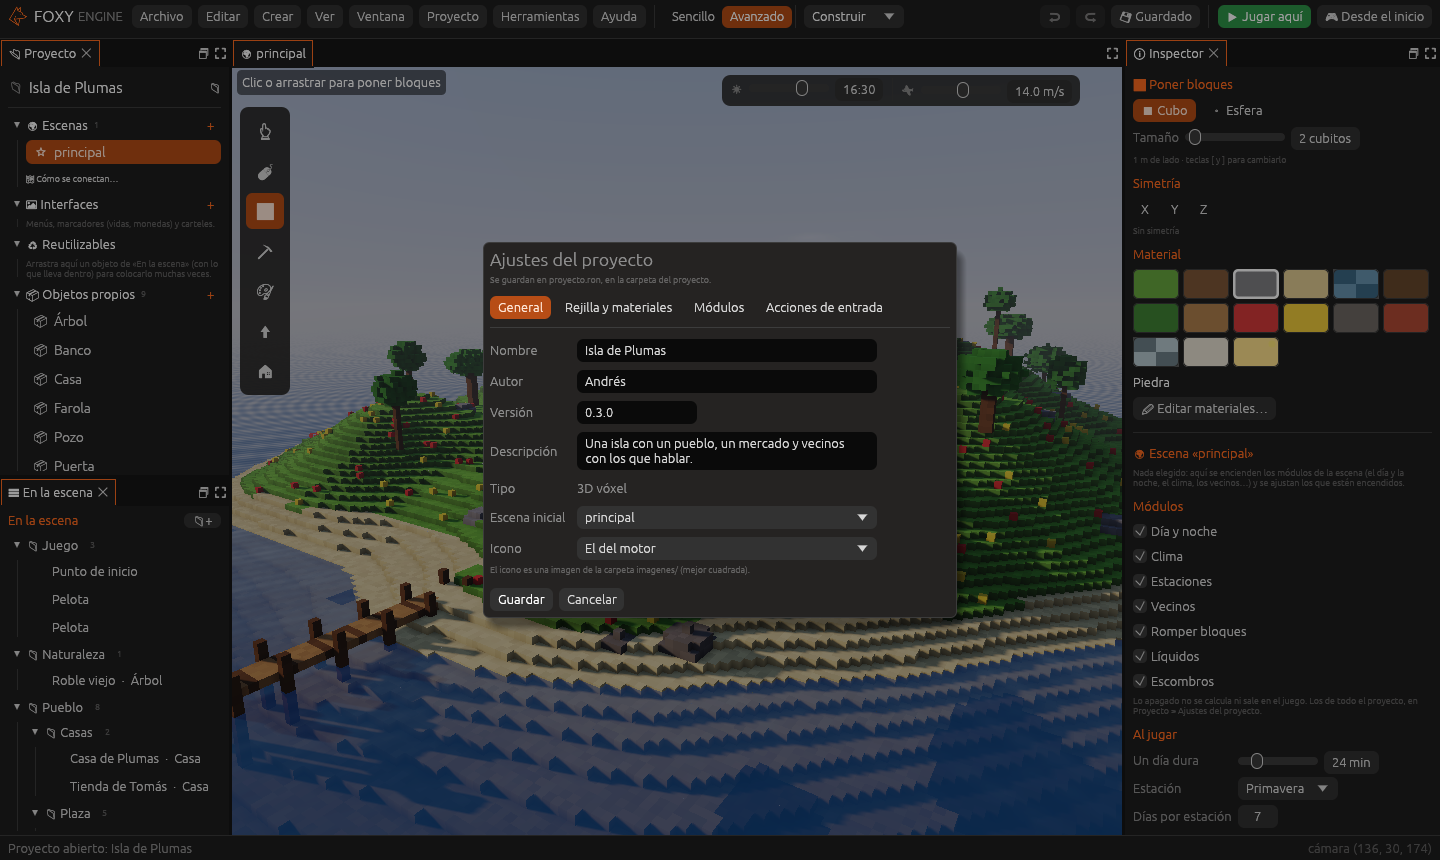
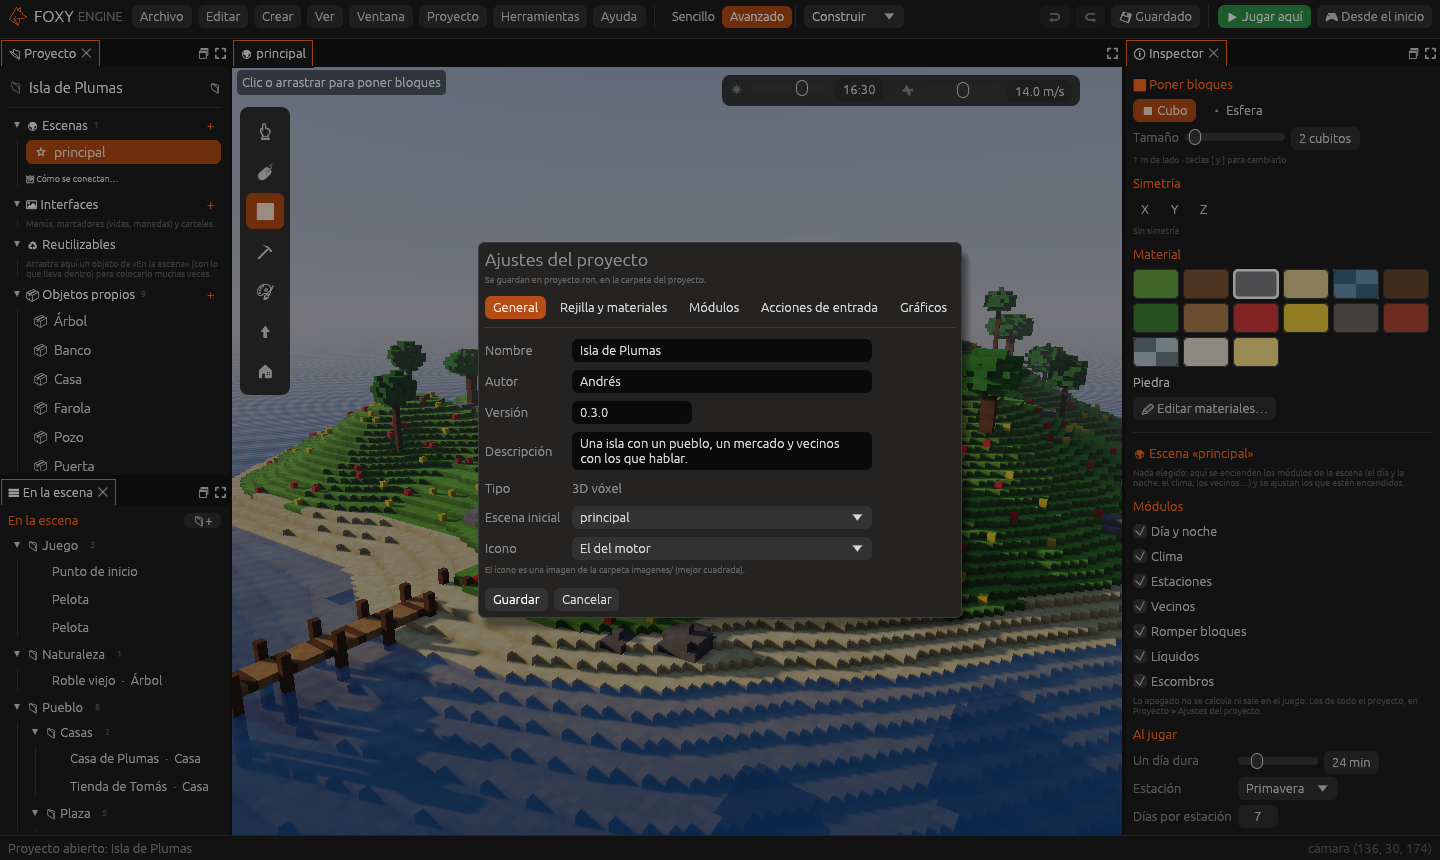
Mundos enormes: página nueva, ajustes, línea de comandos, historial y capturas
Claude-Session: https://claude.ai/code/session_0188fnkrXgsRWdx9nVeSFXNg

diff --git a/theme/version.js b/theme/version.js
@@ -1,2 +1,2 @@
 // Lo escribe herramientas/capturas.py con `foxy-engine --version`.
-window.FOXY_VERSION = "0.0.1-PR44";
+window.FOXY_VERSION = "0.0.1-PR45";

diff --git a/herramientas/capturas.py b/herramientas/capturas.py
@@ -180,7 +180,10 @@ LISTA: dict[str, str] = {
     "isla": f"{JUEGO} {ISLA}",
     # Gráficos (Fase I)
     "ajustes-graficos": f"{ED} --pestana ajustes-graficos",
-    "panel-ajustes-graficos": "@recorte ajustes-graficos 476,104,964,758",
+    "panel-ajustes-graficos": "@recorte ajustes-graficos 476,80,964,782",
+    # La página Gráficos sin desplazar (más alta), para ver «Mundo enorme».
+    "ajustes-graficos-alto": f"--ancho {ANCHO} --alto 1300 --editor --pestana ajustes-graficos",
+    "ajustes-mundo-enorme": "@recorte ajustes-graficos-alto 478,1000,962,1150",
     "juego-opciones-graficos": f"{JUEGO} --juego --menu opciones-graficos",
     "cueva-antorchas": f"{JUEGO} --enorme cueva-con-antorchas",
     "modelos-pbr": f"{ED} --pestana modelos --camara 49.6,6.6,50.6 --mirar 47.8,5.2,46 --hora 21 --recortar vista",
@@ -194,6 +197,7 @@ LISTA: dict[str, str] = {
     "isla-realista": f"--ancho 720 --alto 430 {ISLA} --hora 17.2 --atmosfera realista",
     # Efectos, partículas y estilos (Fase K)
     "cueva-efectos": f"{JUEGO} --enorme cueva-con-efectos",
+    "mundo-de-kilometros": f"{JUEGO} --enorme mundo-de-kilometros --mundo-enorme",
     "ambiente-dibujo": f"--ancho 720 --alto 430 {ISLA} --hora 15 --ambiente dibujo",
     "ambiente-neon": f"--ancho 720 --alto 430 {PLAZA} --camara 118,26,142 --mirar 96,17,118 --hora 22 --ambiente neon",
     "ambiente-acuarela": f"--ancho 720 --alto 430 {ISLA} --hora 15 --ambiente acuarela",

diff --git a/src/guia/mundos-enormes.md b/src/guia/mundos-enormes.md
@@ -1,0 +1,103 @@
+# Mundos enormes
+
+Un mundo de varios kilómetros, con miles de árboles y rocas, no cabe entero
+en la tarjeta gráfica con todo su detalle. Foxy Engine tiene un grupo de
+ajustes, **Mundo enorme**, para que un mundo así vaya fluido: carga solo lo
+que hace falta, dibuja lo de lejos con menos detalle, se salta lo que queda
+tapado y no tiembla aunque te alejes mucho del centro.
+
+Vienen **apagados**: un mundo pequeño no los necesita y se ve igual que
+siempre. Se encienden en **Proyecto → Ajustes del proyecto → Gráficos →
+Mundo enorme**.
+
+![Colinas de 4 × 4 km con miles de árboles y rocas, con todo encendido](../imagenes/capturas/mundo-de-kilometros.png)
+
+## Encender todo
+
+El botón **Encender todo** pone todas las piezas a la vez, con valores que
+van bien para un mundo de kilómetros. **Apagar todo** las quita. También
+puedes encenderlas una a una:
+
+| Opción | Qué hace |
+|---|---|
+| **Carga por zonas** | El mundo se reparte en zonas que se preparan poco a poco, sin parar el juego. Cuanto más lejos, más grande es la zona y menos detalle lleva |
+| **Se ve hasta** | Hasta dónde se dibuja el terreno con la carga por zonas, en metros (de serie, 1.500 m). La niebla de lejos llega justo hasta ahí |
+| **No dibujar lo tapado** | Lo que queda detrás de la roca (las cuevas cuando estás en la superficie, o la superficie cuando estás en una cueva) no se dibuja |
+| **Objetos hasta** | Los objetos más lejos de esa distancia, fuera de la pantalla o tan pequeños que no se verían, no se dibujan. Con 0 se dibujan todos |
+| **Coordenadas grandes** | Todo se dibuja desde la cámara, para que a varios kilómetros del centro nada tiemble |
+
+![La sección Mundo enorme en los Ajustes del proyecto](../imagenes/capturas/ajustes-mundo-enorme.png)
+
+## Carga por zonas
+
+Sin la carga por zonas, al abrir una escena el motor prepara todo el
+terreno de una vez y lo guarda en la tarjeta gráfica. En un mundo pequeño
+es lo más rápido. En uno de kilómetros tardaría mucho y no cabría.
+
+Con la carga por zonas:
+
+- **Cerca** de la cámara cada trozo (de 16 m) se dibuja con todo su detalle.
+- **Más lejos**, los trozos se juntan en zonas cada vez más grandes (de 2,
+  4, 8, 16 y 32 trozos de lado), cada una con casillas más grandes. Desde
+  lejos no se nota y cuesta mucho menos.
+- Las zonas se preparan **en todos los núcleos del ordenador** mientras
+  juegas, y se suben unas pocas en cada imagen, lo más cercano primero.
+  Así **no hay tirones**: mientras llega una zona nueva, se sigue viendo
+  la de antes.
+- Lo que queda muy lejos se **tira** de la memoria, así que puedes viajar
+  sin que la memoria crezca.
+- Al editar, solo se rehacen las zonas que tocan lo que has cambiado.
+
+La distancia a la que se cambia de detalle es la del
+[detalle de lejos](rendimiento.md#detalle-de-lejos) (96 m si no la
+cambias): a esa distancia se pasa a zonas de 2 trozos, al doble a zonas de
+4, y así.
+
+> <i class="fx fx-nota"></i> **Nota.** El agua de lejos queda a su altura de
+> verdad, y las zonas de distinto detalle encajan sin rendijas.
+
+## No dibujar lo tapado
+
+Desde el trozo donde está la cámara, el motor mira por qué huecos se puede
+pasar a los trozos de al lado, y de ahí a los siguientes, sin volver nunca
+hacia atrás. Lo que no se alcanza así está tapado por roca y no se dibuja.
+Es muy barato y sirve sobre todo en mundos con cuevas: desde una cueva,
+la mitad del mundo puede quedar sin dibujar sin que cambie un solo píxel.
+
+Las sombras se siguen calculando con todo, porque una montaña que no ves
+puede hacer sombra en lo que sí ves.
+
+## Objetos de lejos
+
+Los objetos iguales ya se dibujan juntos: mil árboles iguales son un solo
+encargo para la tarjeta. Con **Objetos hasta**, además, solo van a la
+tarjeta los que se ven: los que están dentro de la pantalla, más cerca que
+esa distancia y no más pequeños que un par de píxeles.
+
+## Coordenadas grandes
+
+Los ordenadores guardan las posiciones con unos siete dígitos. A 4 km del
+centro, eso deja poco para los centímetros y las cosas pueden temblar un
+poco al moverse. Con **Coordenadas grandes**, el motor dibuja todo
+contando desde la cámara, donde los números son pequeños y precisos.
+
+## Probarlo
+
+Las [escenas de prueba](../referencia/linea-de-comandos.md#escenas-de-prueba-enormes)
+traen una de **4 × 4 km** con 4.096 árboles y rocas,
+`mundo-de-kilometros`. En la línea de comandos, `--mundo-enorme` enciende
+todo para una captura:
+
+```sh
+foxy-engine --captura km.png --enorme mundo-de-kilometros --mundo-enorme
+```
+
+En la ventana [Rendimiento](rendimiento.md), **Trozos dibujados** cuenta
+las zonas que se dibujan y **Mallas en la tarjeta** lo que ocupan.
+
+## Véase también
+
+- [Rendimiento](rendimiento.md)
+- [Gráficos: luz, sombras y atmósfera](graficos.md)
+- [El terreno de cubitos](generadores.md)
+- [Ajustes del proyecto](../editor/ajustes-proyecto.md)

diff --git a/src/referencia/linea-de-comandos.md b/src/referencia/linea-de-comandos.md
@@ -115,6 +115,8 @@ Valen para cualquier captura, con o sin `--editor`. Ver
 | `--atmosfera <piezas>` | `realista`, `nada` o una lista separada por comas con `luz`, `oclusion`, `agua`, `cielo`, `destello`, `desenfoque`, `color` y `temporal` |
 | `--ambiente <nombre>` | `ninguno`, `realista`, `dibujo`, `neon`, `acuarela` o `pixel` |
 | `--estilo <piezas>` | `nada` o una lista separada por comas con `contorno`, `bandas`, `acuarela`, `pixel`, `paleta`, `lluvia`, `mojado` y `neon` |
+| `--mundo-enorme` | Enciende todo lo de [Mundos enormes](../guia/mundos-enormes.md) |
+| `--mundo-piezas <piezas>` | `todo`, `nada` o una lista separada por comas con `zonas`, `ocultos`, `objetos` y `coordenadas` |
 
 Los paneles son `vista`, `proyecto`, `escena`, `inspector`, `codigo`,
 `nodos`, `archivos`, `materiales`, `pixel` y `registro`. Las capturas
@@ -138,7 +140,7 @@ lento ni cambia la imagen sin querer. Las usa GitHub Actions en cada cambio.
 
 ### Escenas de prueba enormes
 
-El motor fabrica solo cinco escenas para medirse al límite. Salen siempre
+El motor fabrica solo siete escenas para medirse al límite. Salen siempre
 iguales:
 
 | Nombre | Qué tiene |
@@ -148,6 +150,8 @@ iguales:
 | `muchas-luces` | 400 farolas encendidas de noche |
 | `cueva-con-antorchas` | Una sala de piedra con columnas y seis antorchas que hacen sombra |
 | `rayos-de-sol` | Una sala con tres agujeros en el techo, sol de mañana y niebla: salen rayos de luz |
+| `cueva-con-efectos` | La sala de los rayos de sol con una hoguera, ascuas, una cascada y destellos |
+| `mundo-de-kilometros` | Colinas de 4 × 4 km con 4.096 árboles y rocas. Se mide y se captura con todo lo de [Mundos enormes](../guia/mundos-enormes.md) encendido |
 
 Para verlas: `--captura x.png --enorme <nombre>`. Para verlas en el editor y
 jugando, con el perfilador:

diff --git a/src/editor/ajustes-proyecto.md b/src/editor/ajustes-proyecto.md
@@ -68,6 +68,7 @@ Cómo se ve el juego. Los cambios se ven al momento en la escena.
 | **Calidad del juego** | La calidad con la que empieza el juego. Cada jugador la cambia en **Opciones → Gráficos** |
 | **Luz y atmósfera** | Luz que rebota, rincones más oscuros, agua de verdad, cielo físico, destello, desenfoque, suavizado temporal, escala del dibujo y color. **Realista** las enciende todas y **Apagar todo** las quita |
 | **Piezas del dibujo** | Apaga sombras, luces, cielo, niebla, agua o transparentes |
+| **Mundo enorme** | Carga por zonas, no dibujar lo tapado, objetos de lejos y coordenadas grandes, para mundos de kilómetros. Vienen apagados; **Encender todo** los pone todos. Ver [Mundos enormes](../guia/mundos-enormes.md) |
 
 **Volver a como venía** deja la página como al principio. Todo se explica en
 [Gráficos: luz, sombras y atmósfera](../guia/graficos.md).
@@ -78,4 +79,5 @@ Cómo se ve el juego. Los cambios se ven al momento en la escena.
 - [Módulos](../referencia/modulos/index.md)
 - [Escenas](../guia/escenas.md)
 - [Gráficos: luz, sombras y atmósfera](../guia/graficos.md)
+- [Mundos enormes](../guia/mundos-enormes.md)
 - [Pixel art](../guia/pixel-art.md)

diff --git a/src/apendices/historial.md b/src/apendices/historial.md
@@ -5,6 +5,19 @@ Foxy Engine se construye por fases. Cada fase deja el motor funcionando.
 La versión que sale al abrir el editor, como `0.0.1-PR15`, junta la versión
 del motor con el número del último cambio (*pull request*) incorporado.
 
+## Fase L: Mundos enormes
+
+- Grupo nuevo **Mundo enorme** en **Ajustes del proyecto → Gráficos**, para
+  mundos de kilómetros: **carga por zonas** sin tirones (en todos los
+  núcleos, con menos detalle cuanto más lejos), **no dibujar lo tapado**,
+  **objetos de lejos** que no se ven y **coordenadas grandes** que no
+  tiemblan. Viene apagado. Ver [Mundos enormes](../guia/mundos-enormes.md).
+- **Sin rendijas de lejos**: se acabaron las líneas de puntos blancos en las
+  montañas de la [Demo técnica](../tu-primer-juego/demo-tecnica.md).
+- El terreno ocupa menos memoria (la roca maciza y las columnas iguales se
+  guardan juntas) y los generadores de relieve usan todos los núcleos.
+- Escena de prueba nueva, `mundo-de-kilometros` (4 × 4 km).
+
 ## Fase K: Efectos, partículas y estilos
 
 - **Ambientes** de un clic: Realista, Dibujo animado, Neón nocturno,

diff --git a/src/tu-primer-juego/demo-tecnica.md b/src/tu-primer-juego/demo-tecnica.md
@@ -56,9 +56,4 @@ el muelle, en primera persona:
 Es un proyecto como cualquier otro: cambia lo que quieras o
 [publícalo](../publicar/publicar.md) para jugarlo fuera del editor.
 
-> <i class="fx fx-consejo"></i> **Si ves líneas de puntos blancos** en las
-> laderas lejanas, quita **Detalle de lejos** en las
-> [Preferencias](../guia/preferencias.md). Con cubitos de 25 cm, lo de lejos
-> todavía deja alguna rendija; se arreglará en una fase próxima.
-
 ![El muelle de noche](../imagenes/capturas/demo-tecnica-noche.png)

diff --git a/src/SUMMARY.md b/src/SUMMARY.md
@@ -51,6 +51,7 @@
 - [Gráficos: luz, sombras y atmósfera](guia/graficos.md)
     - [Efectos y estilos](guia/efectos.md)
 - [Rendimiento](guia/rendimiento.md)
+    - [Mundos enormes](guia/mundos-enormes.md)
 
 # Conceptos
 
